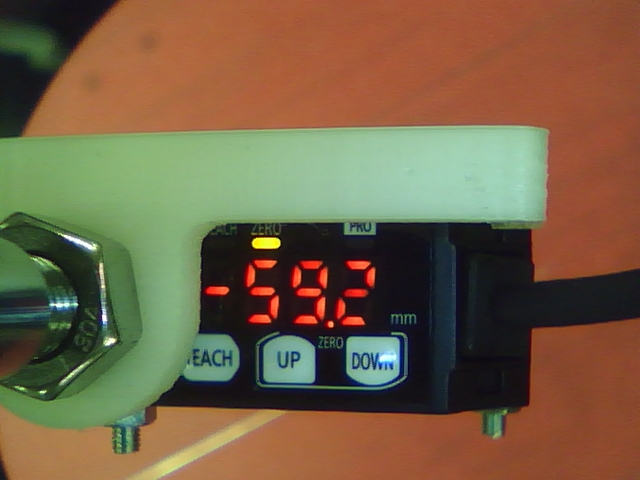
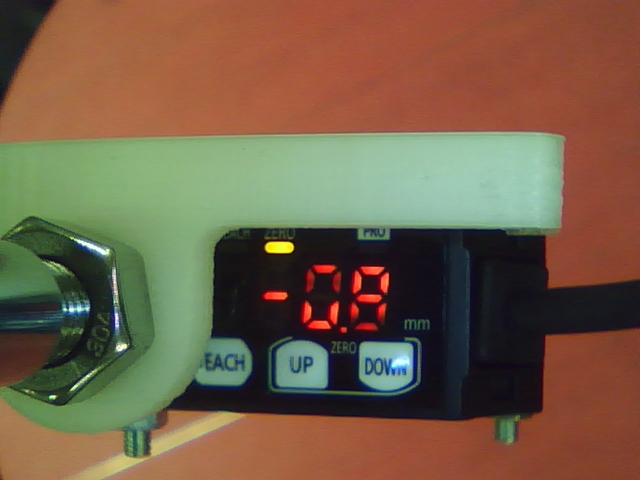
add 3d plot

diff --git a/3dplot.py b/3dplot.py
@@ -1,0 +1,35 @@
+import matplotlib.pyplot as plt
+from mpl_toolkits.mplot3d import Axes3D
+import numpy as np
+
+coord = [(175,0,-1.5),
+(123,123,-0.5),
+(0,175,0.6),
+(-123,123,0.6),
+(-175,0,-0.6),
+(-123,-123,-1.4),
+(0,-175,1),
+(123,-123,0.8)]
+
+xs = []
+ys = []
+zs = []
+        
+for c in coord:
+    x = c[0]
+    y = c[1]
+    z = c[2]
+    xs.append(x)
+    ys.append(y)
+    zs.append(z)
+
+fig = plt.figure()
+ax = fig.add_subplot(111, projection='3d')
+ax.scatter(xs, ys, zs)
+
+ax.set_xlabel('X')
+ax.set_ylabel('Y')
+ax.set_zlabel('Z')
+
+plt.show()
+

diff --git a/trimmer.py b/trimmer.py
@@ -8,10 +8,15 @@ import cv2
 # y = 253
 # width = 138 
 # height =  81
-x =  227
-y =  250
-width =  137
-height =  70
+# x =  227
+# y =  250
+# width =  137
+# height =  70
+x =  259
+y =  260
+width =  138
+height =  79
+
 src = cv2.imread('image.jpg', 1)
 dst = src[y:y+height, x:x+width]
 cv2.imwrite('dst.jpg', dst)
